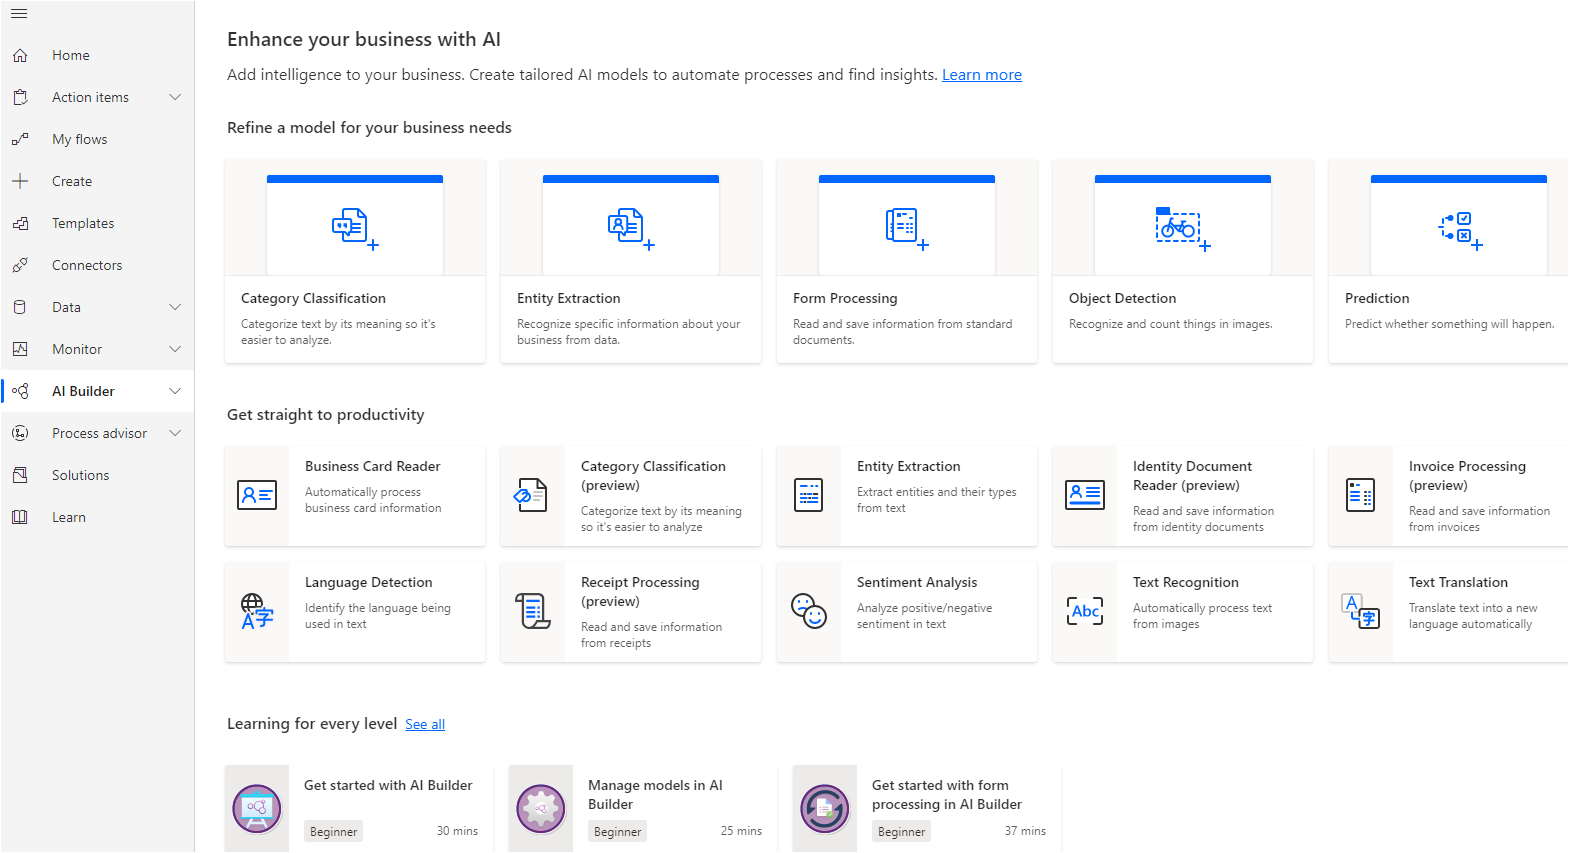
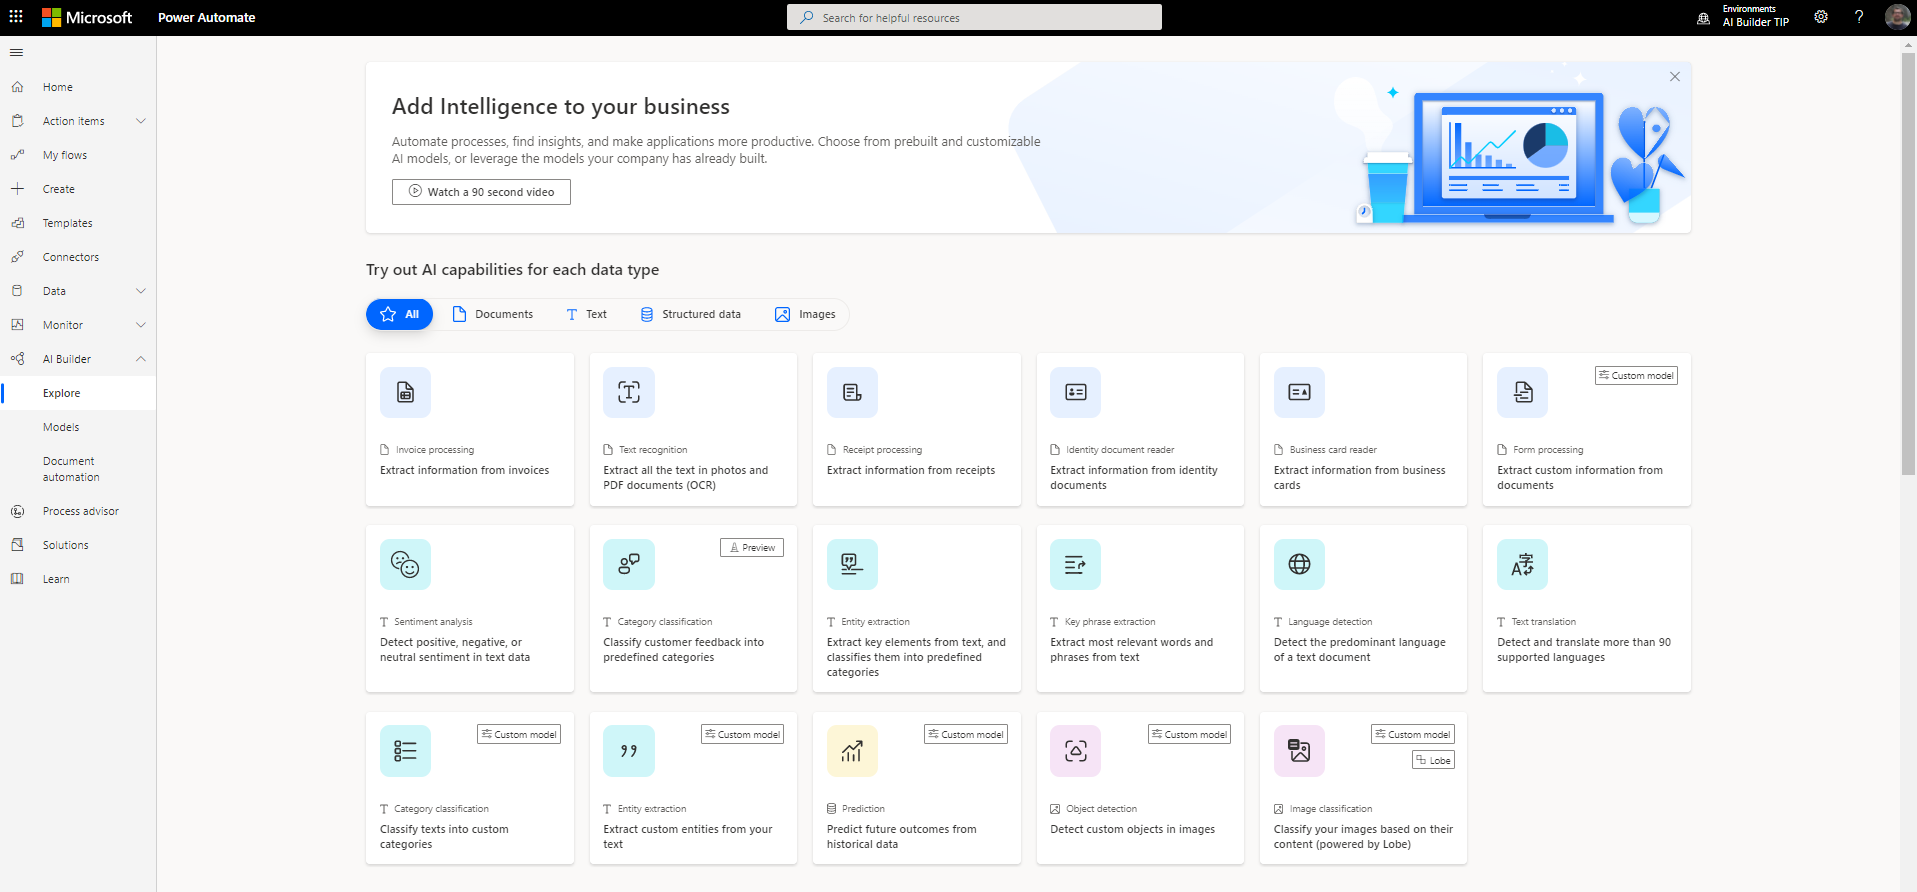
Module update from Paul

diff --git a/learn-bizapps-pr/ai-builder/get-started-ai-builder-identity-document-reader/includes/2-build-flow-id-reader.md b/learn-bizapps-pr/ai-builder/get-started-ai-builder-identity-document-reader/includes/2-build-flow-id-reader.md
@@ -1,8 +1,8 @@
-The ID reader is located on the **Build** page in AI Builder.
+The ID reader is located on the **Explore** page in AI Builder.
 
-When you sign in to Microsoft Power Automate or Power Apps, you can go to **AI Builder** on the left menu and then select **Build**.
+When you sign in to Microsoft Power Automate or Power Apps, you can go to **AI Builder** on the left menu and then select **Explore**.
 
-The AI Builder home page contains all AI capabilities that you need. In the **Get straight to productivity** section, select **Identity document reader**, where you'll learn more about this AI capability. The **Try it out** section shows the output on some sample identity documents (IDs). You can also try to upload an ID and view the extracted data. Remember, the ID reader only works with passports (all passports) and US driver licenses (more document types might be added eventually).
+The AI Builder home page contains all AI capabilities that you need. Select the Identity document reader prebuilt model and you’ll learn more about this AI capability. You’ll see the output on some preloaded samples but you also can upload an ID and view the extracted data. Remember, the ID reader only works with passports (all passports) and US driver licenses (more document types might be added eventually).
 
 > [!div class="mx-imgBorder"]
 > [![Screenshot of Power Automate on the A I Builder tab.](../media/ai-builder.png)](../media/ai-builder.png#lightbox)
